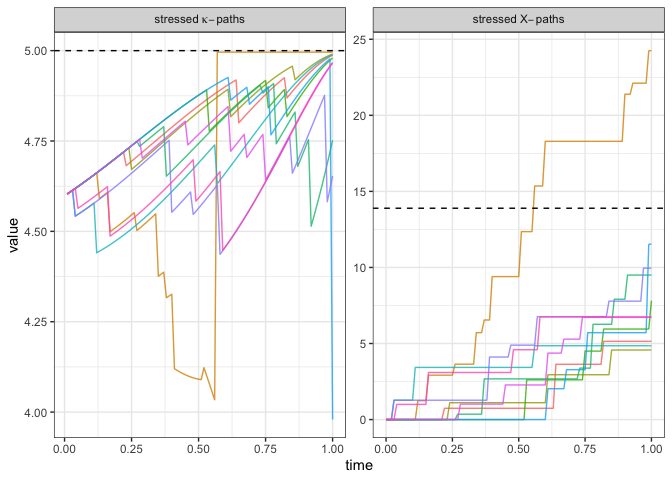
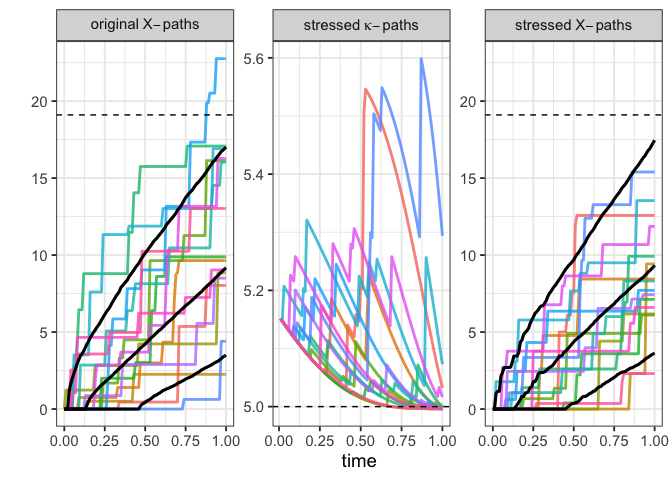
Update README

Changed region(s): [[0.0, 0.0, 1.0, 1.0], [0.125, 0.1875, 0.1562, 0.25], [0.8438, 0.3438, 0.875, 0.375]]

diff --git a/README.md b/README.md
@@ -44,58 +44,38 @@ gamma_2_1 <- new_RPS_dist(dist_fun = function(x,parms) pgamma(x,shape=parms$alph
                           parms = list(alpha = 2, beta=1)) 
 ```
 
-We decide to stress the 90% VaR of the model down 20%. this code imposes
+We decide to stress the 90% VaR of the model up 10%. This code imposes
 the stress and simulates under the model.
 
 ``` r
 ex_gamma_VaR <- stressed_sim(kappa = 5, jump_dist = gamma_2_1, 
                              stress_type = "VaR",
-                             stress_parms = list(c=0.9,VaR_stress=0.8),
+                             stress_parms = list(c=0.9,VaR_stress=1.1),
                              Npaths=1e4, endtime=1, dt=1e-2)
 ```
 
-Here we plot the output of the stressed model.
+Here we plot the output of the stressed model. We compare the paths
+under the stressed model to those under the baseline model, as well as
+to how the intensity of the jumps have changed under the stressed
+probability measure.
 
 ``` r
-path_plot(ex_gamma_VaR, Npaths=20, quantiles=list(lower=0.1,upper=0.9))
+path_plot(ex_gamma_VaR, Npaths=15, quantiles=list(lower=0.1,upper=0.9))
 ```
 
 <img src="man/figures/README-unnamed-chunk-4-1.png" width="100%" />
 
-We can also compare the paths under the stressed model to those under
-the baseline model.
-
-``` r
-path_plot(ex_gamma_VaR,
-          Npaths = 20,
-          quantiles=list(lower=0.1,upper=0.9),
-          plot_type = "compare_to_baseline")
-```
-
-<img src="man/figures/README-unnamed-chunk-5-1.png" width="100%" />
-
-Finally, we can examine how the intensity of the jumps have changed
-under the stressed probability measure.
-
-``` r
-path_plot(ex_gamma_VaR,
-          Npaths = 10,
-          plot_type = "compare_to_kappa")
-```
-
-<img src="man/figures/README-unnamed-chunk-6-1.png" width="100%" />
-
 ### CVaR constraint
 
-Now we want to impose an additional constraint, corresponding to a 10%
-decrease in CVaR (also known as Expected Shortfall).
+Now we want to impose an additional constraint, corresponding to an 8%
+increase in CVaR (also known as Expected Shortfall).
 
 ``` r
 ex_gamma_CVaR <- stressed_sim(kappa = 5, jump_dist = gamma_2_1,
                               stress_type = "CVaR", 
                               stress_parms = list(c=0.9,
-                                                 VaR_stress=0.8,
-                                                 CVaR_stress=0.9),
+                                                 VaR_stress=1.1,
+                                                 CVaR_stress=1.08),
                               Npaths=1e4, endtime=1, dt=1e-2)
 ```
 
@@ -103,9 +83,7 @@ Here we plot the paths of the stressed model as well as the jump
 intensity over time.
 
 ``` r
-path_plot(ex_gamma_CVaR,
-          Npaths = 10,
-          plot_type = "compare_to_kappa")
+path_plot(ex_gamma_CVaR, Npaths=15, quantiles=list(lower=0.1,upper=0.9))
 ```
 
-<img src="man/figures/README-unnamed-chunk-8-1.png" width="100%" />
+<img src="man/figures/README-unnamed-chunk-6-1.png" width="100%" />
